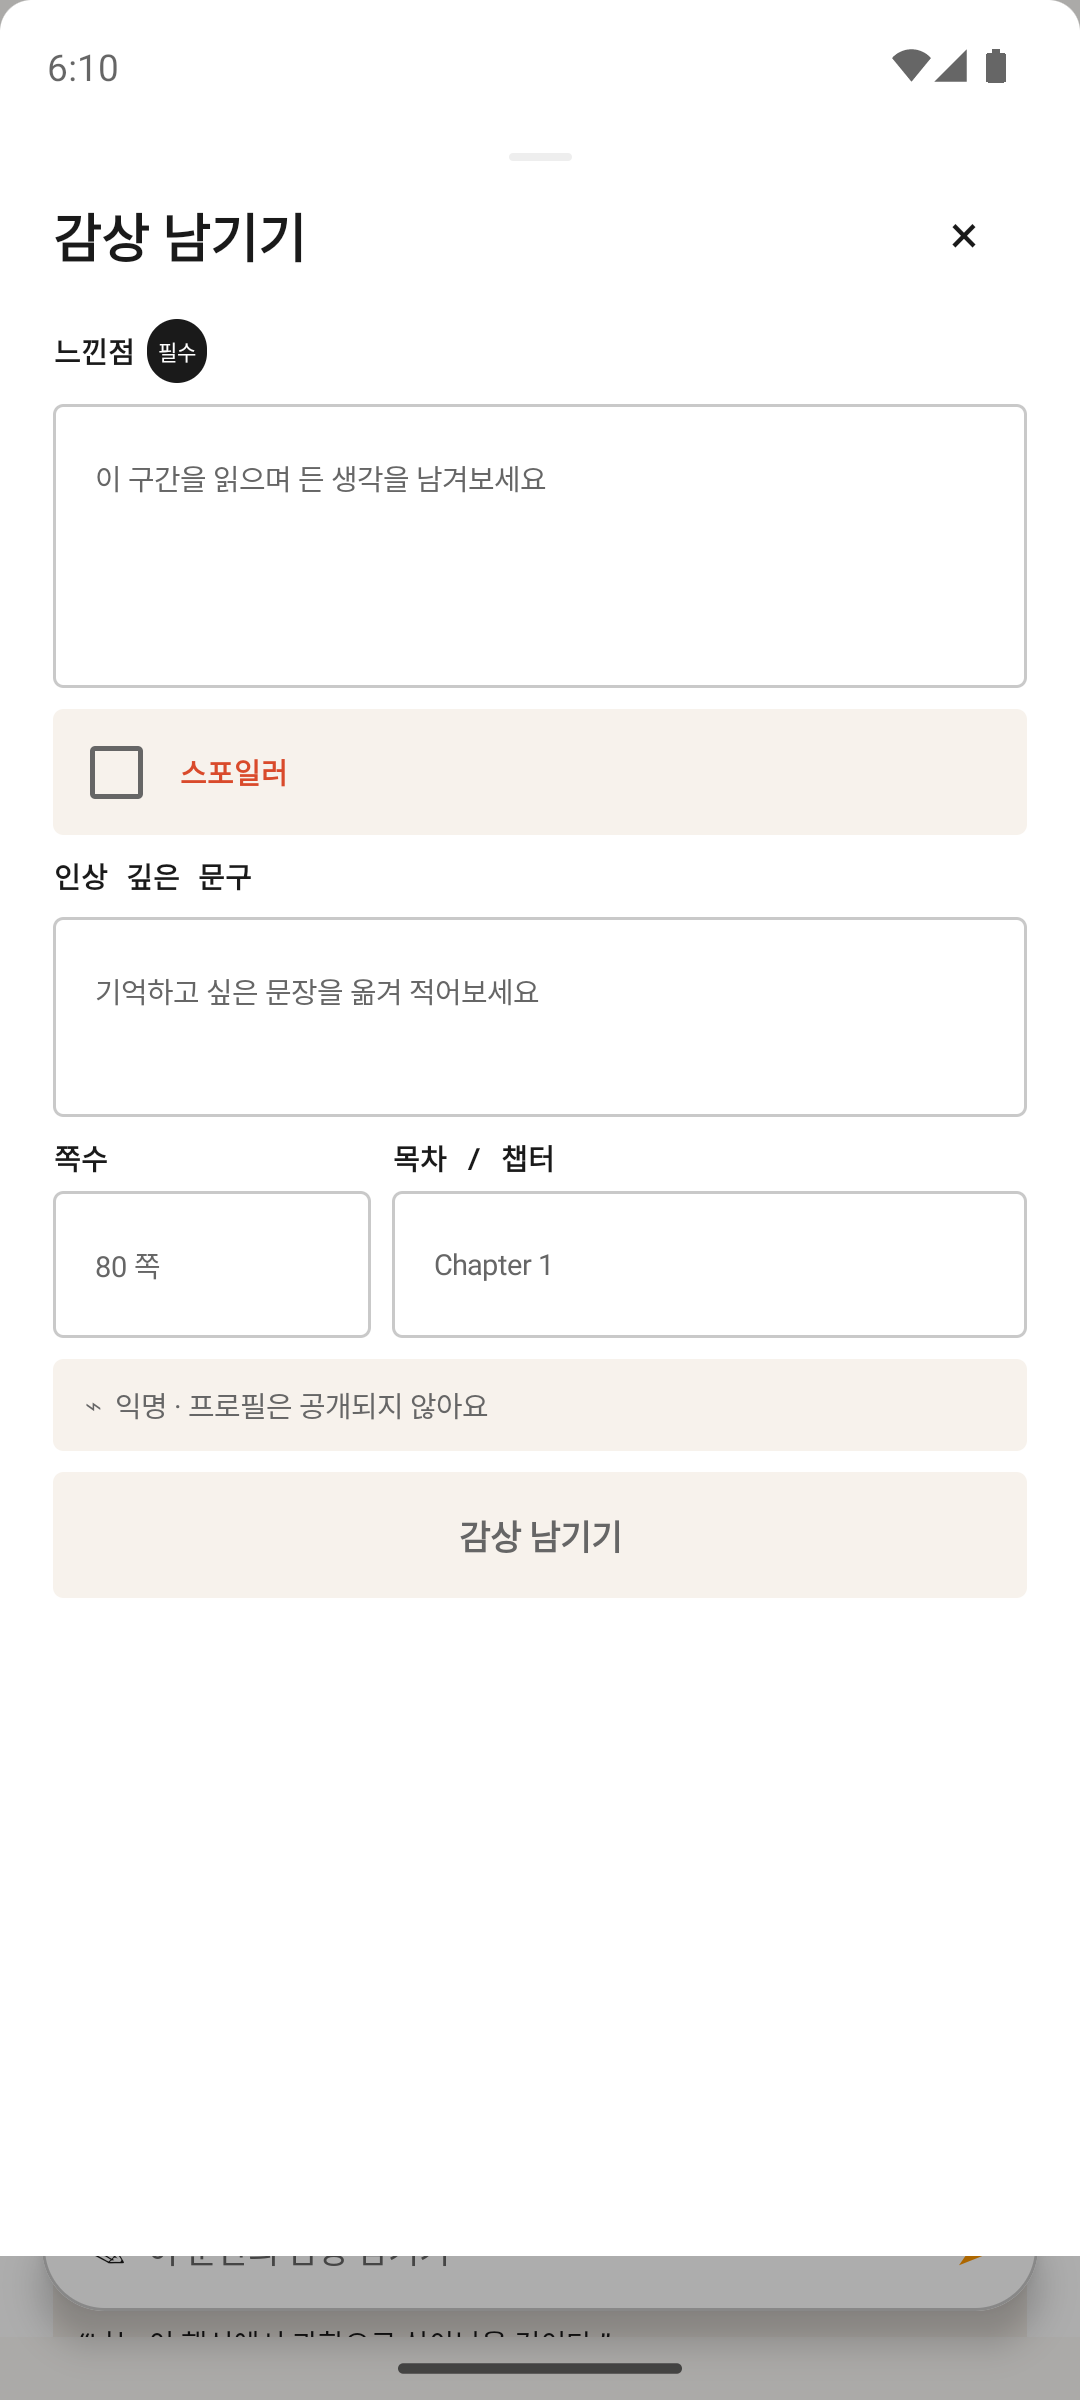
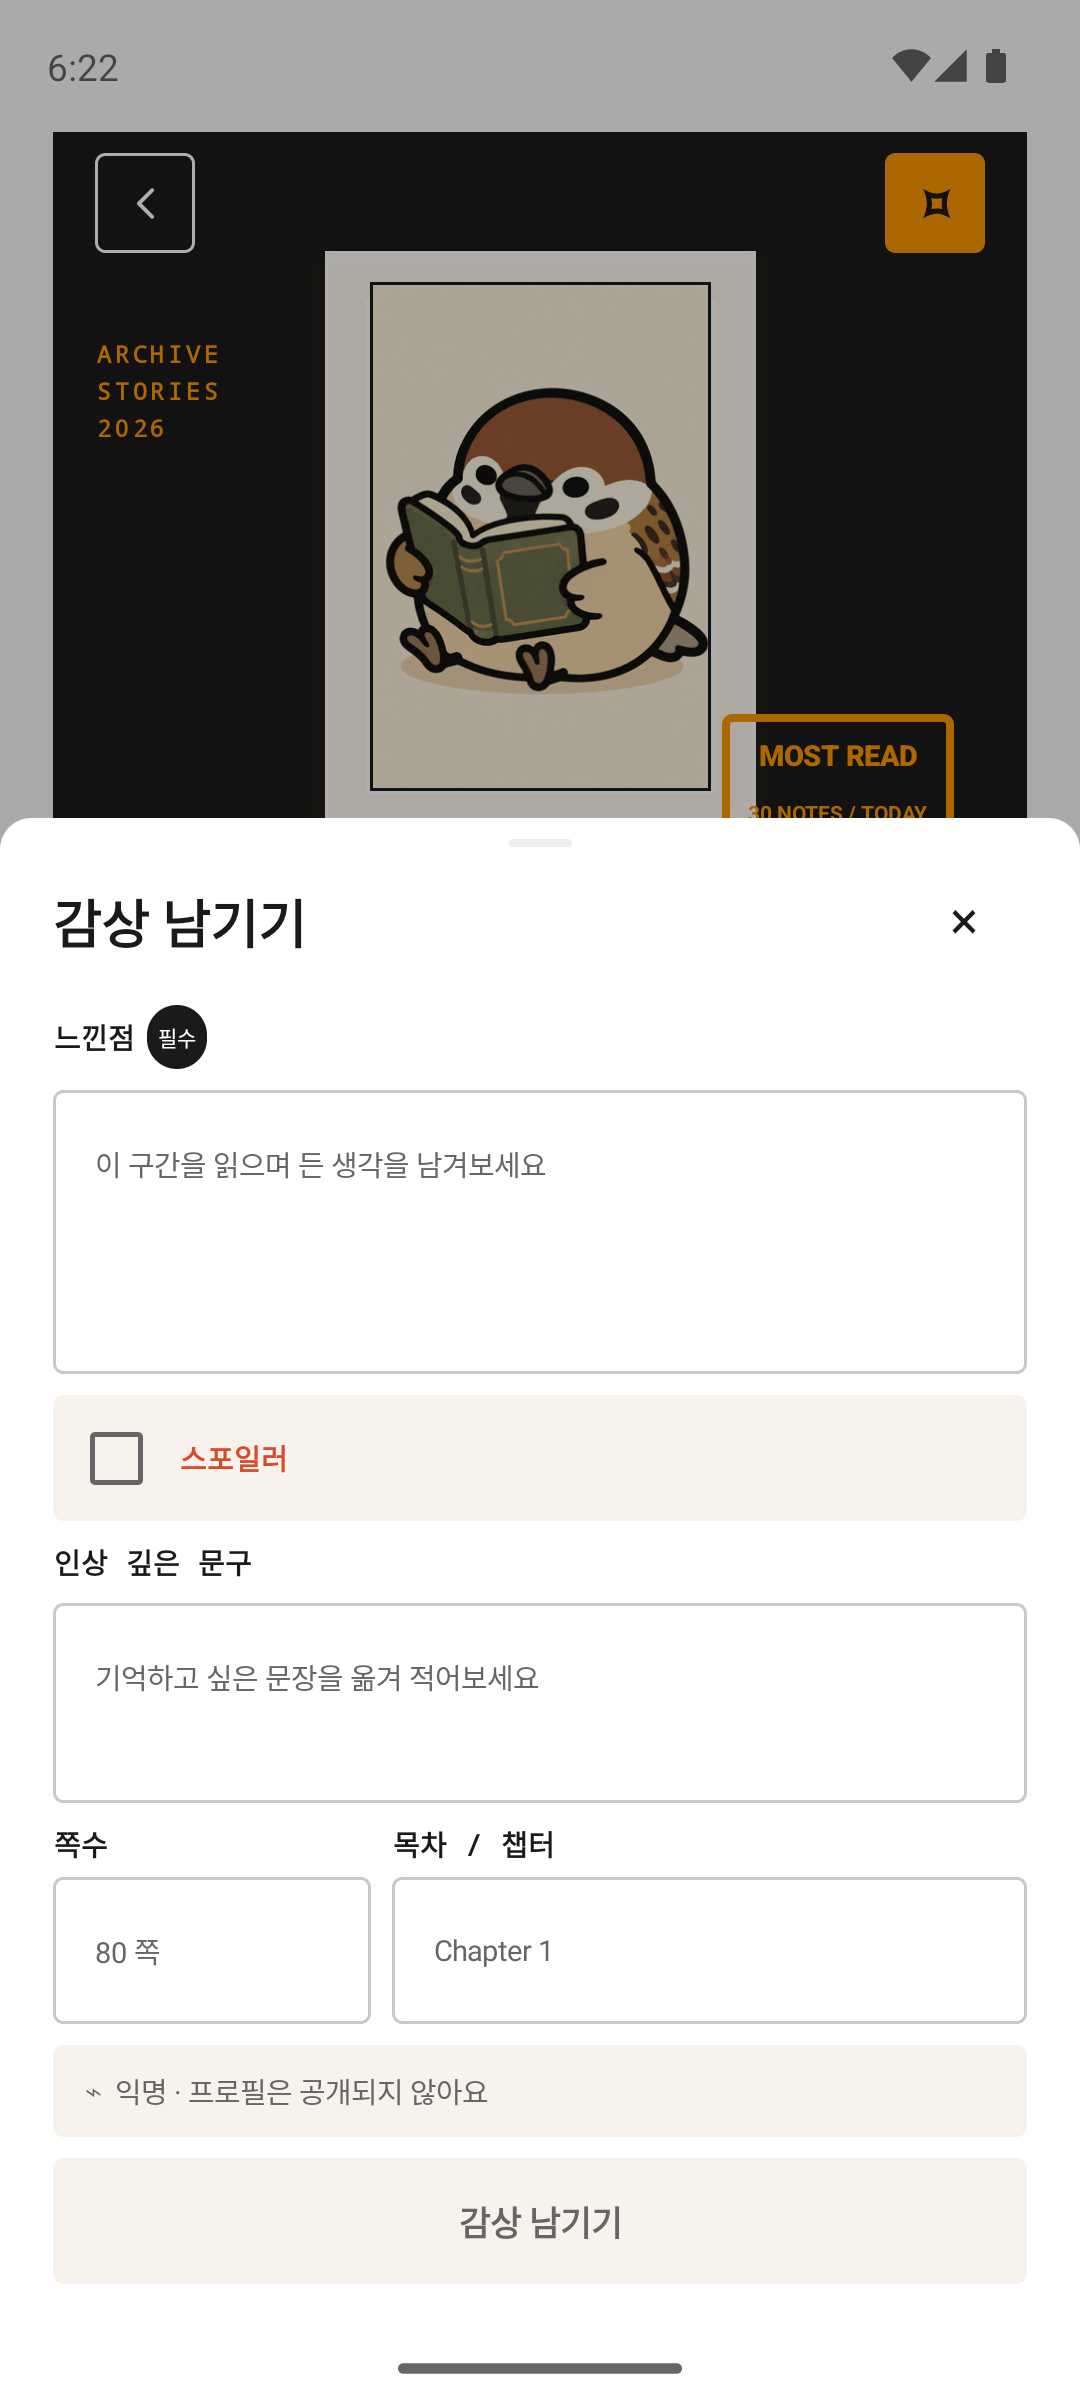
fix(android): 감상 작성 시트 높이 조정

diff --git a/android/app/src/main/java/com/chamsae/chaekchaek/ui/bookdetail/BookDetailScreen.kt b/android/app/src/main/java/com/chamsae/chaekchaek/ui/bookdetail/BookDetailScreen.kt
@@ -10,19 +10,22 @@ import androidx.compose.foundation.horizontalScroll
 import androidx.compose.foundation.layout.Arrangement
 import androidx.compose.foundation.layout.Box
 import androidx.compose.foundation.layout.Column
+import androidx.compose.foundation.layout.ExperimentalLayoutApi
 import androidx.compose.foundation.layout.PaddingValues
 import androidx.compose.foundation.layout.Row
 import androidx.compose.foundation.layout.Spacer
+import androidx.compose.foundation.layout.WindowInsets
 import androidx.compose.foundation.layout.fillMaxSize
-import androidx.compose.foundation.layout.fillMaxHeight
 import androidx.compose.foundation.layout.fillMaxWidth
 import androidx.compose.foundation.layout.height
 import androidx.compose.foundation.layout.imePadding
+import androidx.compose.foundation.layout.isImeVisible
 import androidx.compose.foundation.layout.navigationBarsPadding
 import androidx.compose.foundation.layout.offset
 import androidx.compose.foundation.layout.padding
 import androidx.compose.foundation.layout.size
 import androidx.compose.foundation.layout.width
+import androidx.compose.foundation.layout.wrapContentHeight
 import androidx.compose.foundation.lazy.LazyColumn
 import androidx.compose.foundation.lazy.rememberLazyListState
 import androidx.compose.foundation.rememberScrollState
@@ -572,7 +575,7 @@ data class ReflectionDraft(
 )
 
 @Composable
-@OptIn(ExperimentalMaterial3Api::class)
+@OptIn(ExperimentalMaterial3Api::class, ExperimentalLayoutApi::class)
 private fun ReflectionSheet(
   initialPage: String,
   anonymous: Boolean,
@@ -587,10 +590,12 @@ private fun ReflectionSheet(
   var chapter by rememberSaveable { mutableStateOf("") }
   var spoiler by rememberSaveable { mutableStateOf(false) }
   val canSubmit = body.isNotBlank()
+  val scrollState = rememberScrollState()
+  val imeVisible = WindowInsets.isImeVisible
 
   ModalBottomSheet(
     onDismissRequest = onDismiss,
-    modifier = Modifier.fillMaxHeight(0.94f),
+    modifier = Modifier.wrapContentHeight(),
     sheetState = sheetState,
     shape = RoundedCornerShape(topStart = 12.dp, topEnd = 12.dp),
     containerColor = MaterialTheme.colorScheme.surface,
@@ -607,8 +612,7 @@ private fun ReflectionSheet(
       modifier =
         Modifier
           .fillMaxWidth()
-          .verticalScroll(rememberScrollState())
-          .imePadding()
+          .then(if (imeVisible) Modifier.verticalScroll(scrollState).imePadding() else Modifier)
           .padding(start = 20.dp, end = 20.dp, bottom = 20.dp),
       verticalArrangement = Arrangement.spacedBy(8.dp),
     ) {
